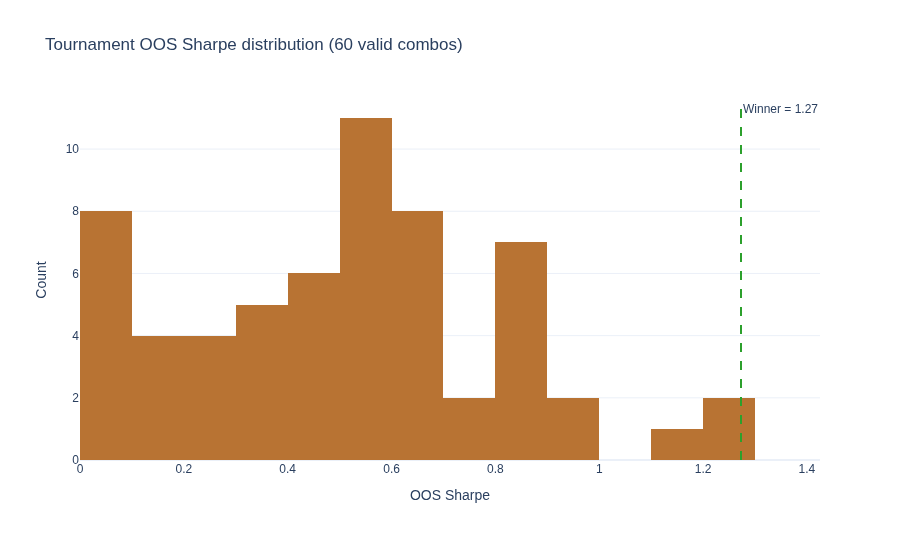
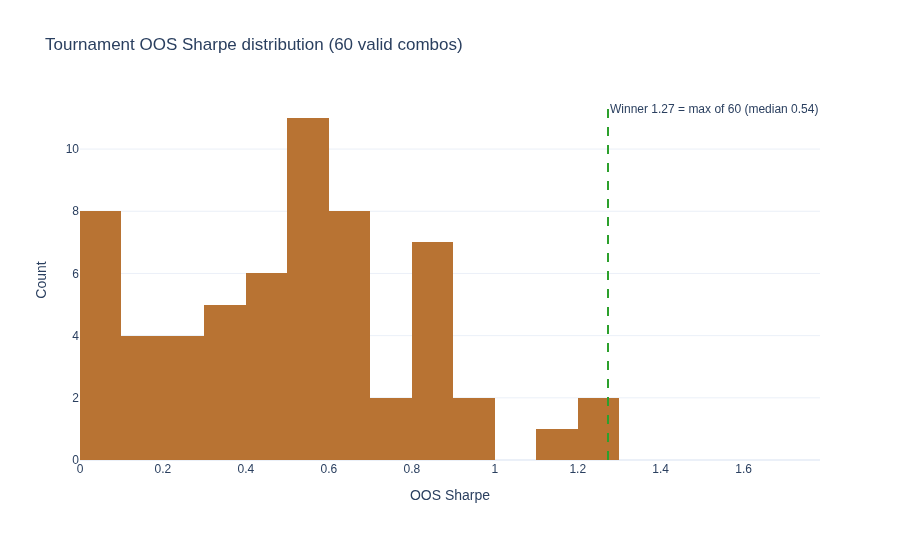
feat(disclosure): Phase 3 — DPS-SCD1 spec-curve position on all pairs (GH #9)
tournament_intro on all 7 active pairs now states the winner's position:
best of N valid strategy combinations + median OOS Sharpe, every number
re-read from the pair's tournament CSV at authoring time. hy_ig_spy
discloses its genuine 2-way tie at the max (1.4083), consistent with its
chart's pre-existing "Top 2 of 2036". Stale valid counts corrected to
ECON-T4 strategy-only semantics (indpro_spy 1,666→1,149 valid; vix 332→
331; umcsent 1,196→1,195 in two locations).

gold_copper tournament_sharpe_dist regenerated via generator (VIZ-SCD1):
annotation now "Winner 1.27 = max of 60 (median 0.54)" computed from the
CSV, not hard-coded; benchmark excluded via signal filter. New
TOURNAMENT_SCATTER_CAPTION config override fixes the generic
stars/diamond caption rendering under gold_copper's histogram.

🤖 Agent: Lead Lesandro

diff --git a/scripts/generate_charts_gold_copper_xli_extras.py b/scripts/generate_charts_gold_copper_xli_extras.py
@@ -136,20 +136,26 @@ def make_drawdown_comparison():
 
 def make_tournament_sharpe_dist():
     t = pd.read_csv(os.path.join(RESULTS, f"tournament_results_{DATE_TAG}.csv"))
-    valid = t[t["valid"]]
+    # ECON-T4: valid strategy combos only; benchmark selected via signal.
+    valid = t[t["valid"] & (t["signal"] != "BENCHMARK")]
+    n = len(valid)
+    winner = float(valid["oos_sharpe"].max())
+    median = float(valid["oos_sharpe"].median())
     fig = go.Figure()
     fig.add_trace(go.Histogram(x=valid["oos_sharpe"], nbinsx=20,
                                marker_color="#b87333",
                                name="Valid combos"))
-    fig.add_vline(x=1.273, line=dict(color="#2ca02c", dash="dash"),
-                  annotation_text="Winner = 1.27")
-    fig.update_layout(title="Tournament OOS Sharpe distribution (60 valid combos)",
+    # VIZ-SCD1: the annotation states the winner's POSITION in the valid
+    # population, never a bare value; numbers computed from the CSV.
+    fig.add_vline(x=winner, line=dict(color="#2ca02c", dash="dash"),
+                  annotation_text=f"Winner {winner:.2f} = max of {n} (median {median:.2f})")
+    fig.update_layout(title=f"Tournament OOS Sharpe distribution ({n} valid combos)",
                       xaxis=dict(title="OOS Sharpe"),
                       yaxis=dict(title="Count"),
                       template="plotly_white", height=380)
     save_chart(fig, "tournament_sharpe_dist", palette_id="hist_v1",
-               rules_applied=["VIZ-IC1"],
-               alignment_note="Distribution of OOS Sharpe across valid tournament combos; winner marked.")
+               rules_applied=["VIZ-IC1", "VIZ-SCD1"],
+               alignment_note="Distribution of OOS Sharpe across valid strategy combos; winner annotated with its position (max of N, median) per VIZ-SCD1.")
 
 
 def make_returns_by_regime():

diff --git a/app/pair_configs/gold_copper_xli_config.py b/app/pair_configs/gold_copper_xli_config.py
@@ -853,12 +853,16 @@ EVIDENCE_METHOD_BLOCKS = {
         "We tested combinations of 5 signals (z-scores at 126/252-day "
         "windows, 504-day percentile rank, 63d and 126d rate-of-change), "
         "3 thresholds (in-sample p25/p50/p75), 2 strategies (Long/Cash, "
-        "Long/Short), and 3 lead times (0/1/5 days) = 90 combinations. "
+        "Long/Short), and 3 lead times (0/1/5 days) = 90 combinations, "
+        "of which 60 passed validity filters. "
         "Ranked by out-of-sample Sharpe over 2020–2025. The winning "
         "combination: **126-day z-score signal, in-sample-median (≈ -0.03) "
         "threshold, Long/Cash, no lead**, producing **OOS Sharpe 1.27** "
         "(annualized return 13.4%, max drawdown -8.2%) vs ~0.6 "
-        "buy-and-hold XLI."
+        "buy-and-hold XLI. That 1.27 is the **best of the 60 valid "
+        "combinations** — the maximum of the search, not a typical result: "
+        "the median valid combination scored 0.54. The distribution chart "
+        "on the Strategy page (Confidence tab) shows where the winner sits."
     ),
     "transition": (
         "**Transition:** the data confirms a countercyclical relationship "
@@ -933,6 +937,13 @@ class StrategyConfig:
     DRAWDOWN_CHART_NAME = "drawdown"
     WALK_FORWARD_CHART_NAME = "walk_forward"
     TOURNAMENT_SCATTER_CHART_NAME = "tournament_sharpe_dist"
+    # This pair shows a histogram, not a scatter — the generic
+    # stars/diamond caption would describe elements that don't exist.
+    TOURNAMENT_SCATTER_CAPTION = (
+        "What this shows: the OOS Sharpe of all 60 valid strategy "
+        "combinations. The vertical line marks the winner (1.27) — the "
+        "maximum of the distribution; the median combination scored 0.54."
+    )
 
     CAVEATS_MD = """
 **Important Caveats**

diff --git a/app/pair_configs/umcsent_xlv_config.py b/app/pair_configs/umcsent_xlv_config.py
@@ -466,7 +466,10 @@ EVIDENCE_METHOD_BLOCKS = {
         "With the econometric case established, we swept a 5-dimensional "
         "tournament over 7 signal transforms, 7 threshold methods, 3 "
         "strategy families, and 5 lead times — 1,305 raw combinations "
-        "pruned to 1,196 valid. The top 5 strategies were validated with "
+        "pruned to 1,195 valid. The winner posts OOS Sharpe 1.02 — the "
+        "**best of those 1,195 valid combinations**: the maximum of the "
+        "search, not a typical result. The median valid combination "
+        "scored 0.63. The top 5 strategies were validated with "
         "bootstrap significance testing and transaction-cost sensitivity. "
         "The winning specification is on the Strategy page."
     ),
@@ -688,8 +691,9 @@ _TOURNAMENT_DESIGN_MD = """
 | **Lead times queued for next rerun** | 4 and 5 months added to `scripts/pair_pipeline_umcsent_xlv.py` so the tournament covers 0-6 months continuously |
 | **Direction** | Procyclical applied (empirically observed direction) |
 
-Ranked by out-of-sample Sharpe. **1,305 total combinations tested; 1,196
-valid** (out-of-sample Sharpe > 0, turnover ≤ 24/year, out-of-sample n ≥ 12). Winner (per
+Ranked by out-of-sample Sharpe. **1,305 total combinations tested; 1,195
+valid** (out-of-sample Sharpe > 0, turnover ≤ 24/year, out-of-sample n ≥ 12; the
+buy-and-hold benchmark row is a reference, not a combination). Winner (per
 `results/umcsent_xlv/winner_summary.json`, authoritative): **umcsent_yoy /
 zero-crossing (crosses-up) / P1_long_cash / Lead 6 months → out-of-sample
 Sharpe 1.0202, out-of-sample annualised return +11.93%, max drawdown

diff --git a/app/pair_configs/hy_ig_spy_config.py b/app/pair_configs/hy_ig_spy_config.py
@@ -731,10 +731,15 @@ EVIDENCE_METHOD_BLOCKS = {
         "We tested combinations of signals (HY-IG level, z-score, rate-of-change, "
         "momentum, and HMM stress probability), thresholds (including HMM 0.5 cutoff), "
         "strategies (Signal-Strength, Long/Cash, Long/Short), and lead times (L0). "
-        "These were ranked by out-of-sample Sharpe ratio over 2019-2026. "
+        "These were ranked by out-of-sample Sharpe ratio over 2019-2026 — "
+        "2,166 specifications run, of which 2,036 passed validity filters. "
         "The winning combination: **HMM stress probability (S6_hmm_stress), "
         "threshold T4_hmm_0.5, Signal-Strength strategy (P2), L0 lead**, "
-        "producing OOS Sharpe 1.41 vs 0.81 buy-and-hold SPY."
+        "producing OOS Sharpe 1.41 vs 0.81 buy-and-hold SPY. That 1.41 is "
+        "the **maximum of the 2,036 valid combinations** (one other "
+        "combination ties it exactly; the deterministic tie-break cascade "
+        "selected this one) — not a typical result: the median valid "
+        "combination scored 0.72."
     ),
     "transition": (
         "**Transition:** Multiple statistical methods confirm the countercyclical "

diff --git a/app/pair_configs/permit_spy_config.py b/app/pair_configs/permit_spy_config.py
@@ -386,9 +386,13 @@ EVIDENCE_METHOD_BLOCKS = {
     "tournament_intro": (
         "With the in-sample econometric case established, we then swept a "
         "5-dimensional tournament over signal transforms, threshold methods, "
-        "strategy families, lead times, and lookback windows. The leaderboard "
-        "lives on the Strategy page; the headline is a winning OOS Sharpe of "
-        "1.45 versus 0.90 for SPY buy-and-hold over the 2018–2025 OOS window."
+        "strategy families, lead times, and lookback windows — 855 "
+        "specifications run, of which 674 passed validity filters. The "
+        "leaderboard lives on the Strategy page; the headline is a winning "
+        "OOS Sharpe of 1.45 versus 0.90 for SPY buy-and-hold over the "
+        "2018–2025 OOS window. That 1.45 is the **best of the 674 valid "
+        "combinations** — the maximum of the search, not a typical result: "
+        "the median valid combination scored 0.68."
     ),
     "transition": (
         "**Honest read on the cross-period charts above.** The relationship "

diff --git a/app/pair_configs/indpro_xlp_config.py b/app/pair_configs/indpro_xlp_config.py
@@ -464,10 +464,13 @@ EVIDENCE_METHOD_BLOCKS = {
         "We tested combinations of signals (IP level, YoY, MoM, z-score, "
         "acceleration), thresholds (7 methods including percentile cuts), "
         "strategies (Long/Cash, Long/Short), and lead times (0-6 months). "
-        "These were ranked by out-of-sample Sharpe ratio over 2019-2025. "
+        "These were ranked by out-of-sample Sharpe ratio over 2019-2025 — "
+        "3,330 specifications run, of which 2,691 passed validity filters. "
         "The winning combination: **IP acceleration signal, 0.75 percentile "
         "threshold, Long/Cash, L3 lead**, producing OOS Sharpe 1.1147 vs 0.90 "
-        "buy-and-hold XLP."
+        "buy-and-hold XLP. That 1.1147 is the **best of the 2,691 valid "
+        "combinations** — the maximum of the search, not a typical result: "
+        "the median valid combination scored 0.63."
     ),
     "transition": (
         "**Transition:** Multiple statistical methods confirm the countercyclical "

diff --git a/app/pair_configs/vix_vix3m_spy_config.py b/app/pair_configs/vix_vix3m_spy_config.py
@@ -402,9 +402,12 @@ EVIDENCE_METHOD_BLOCKS = {
         "With the statistical case firmly established, we swept a "
         "5-dimensional tournament over signal transforms, threshold "
         "methods, strategy families, lead times (in trading days, since "
-        "this is a daily pair), and lookback windows — 916 raw "
-        "specifications pruned to 332 valid combinations. The winner is "
-        "detailed on the Strategy page."
+        "this is a daily pair), and lookback windows — 915 raw "
+        "specifications pruned to 331 valid combinations. The winner — "
+        "detailed on the Strategy page — posts OOS Sharpe 1.13, the "
+        "**best of those 331 valid combinations**: the maximum of the "
+        "search, not a typical result. The median valid combination "
+        "scored 0.80."
     ),
     "transition": (
         "The statistical evidence confirms a powerful counter-cyclical "

diff --git a/app/pair_configs/indpro_spy_config.py b/app/pair_configs/indpro_spy_config.py
@@ -522,8 +522,11 @@ EVIDENCE_METHOD_BLOCKS = {
         "With the econometric case established, we swept a 5-dimensional "
         "tournament over 9 signal transforms, 6 threshold methods, 3 strategy "
         "families, 5 lead times, and 3 lookback windows — ~8,100 raw "
-        "specifications pruned to 1,666 valid combinations. The winning "
-        "specification is on the Strategy page."
+        "specifications, of which 1,665 were run and 1,149 passed validity "
+        "filters. The headline OOS Sharpe of 1.10 is the **best of those "
+        "1,149 valid combinations** — the maximum of the search, not a "
+        "typical result: the median valid combination scored 0.77. The "
+        "winning specification is on the Strategy page."
     ),
     "transition": (
         "The statistical evidence confirms a real but nuanced IP-equity "

diff --git a/app/components/page_templates.py b/app/components/page_templates.py
@@ -1372,9 +1372,11 @@ def render_strategy_page(pair_id: str, config: Any | None = None) -> None:
                 f"Tournament scatter pending — expected at "
                 f"output/charts/{pair_id}/plotly/{scatter_chart}.json"
             ),
-            caption=(
+            caption=getattr(
+                config,
+                "TOURNAMENT_SCATTER_CAPTION",
                 "What this shows: each point is one strategy combination. "
-                "Stars mark the top 5; diamond is buy-and-hold."
+                "Stars mark the top 5; diamond is buy-and-hold.",
             ),
         )
         st.markdown("---")
